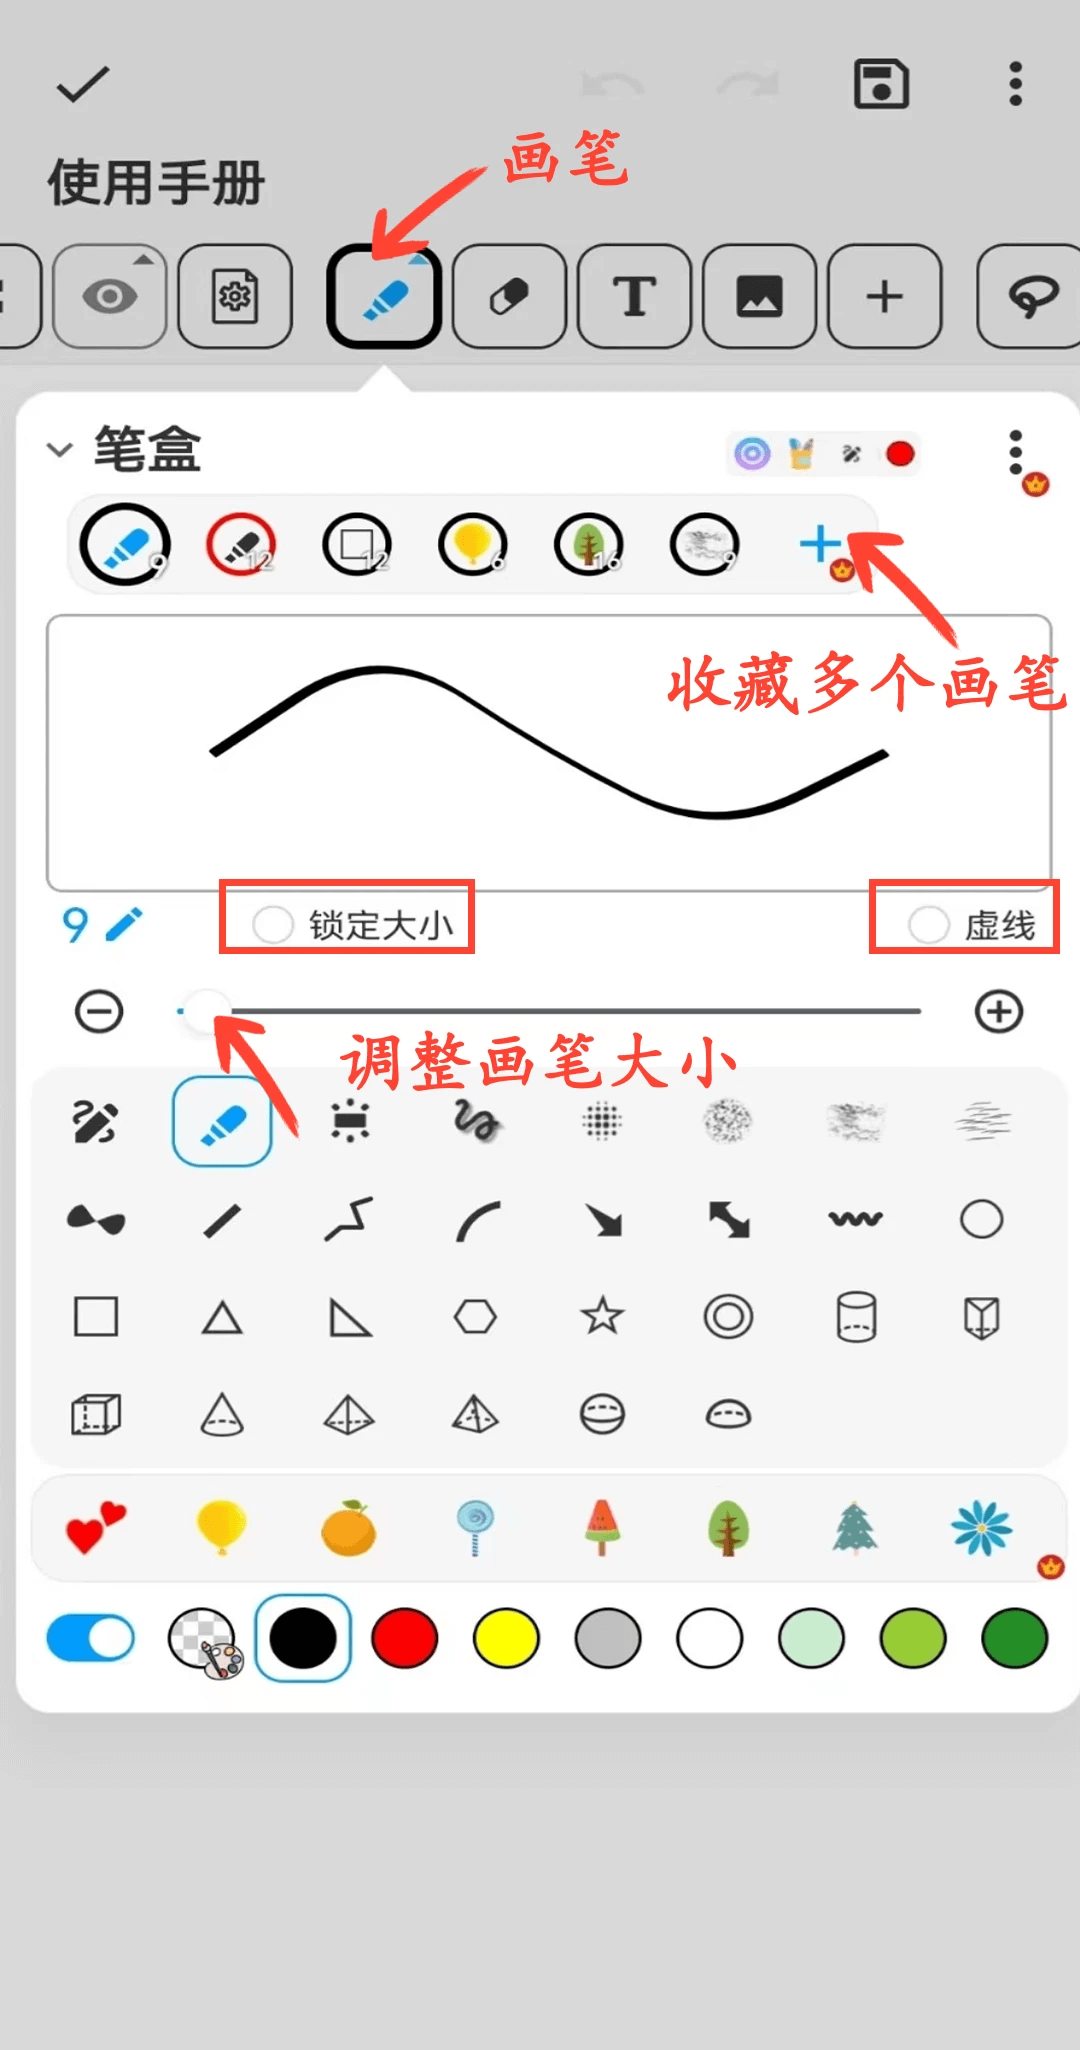
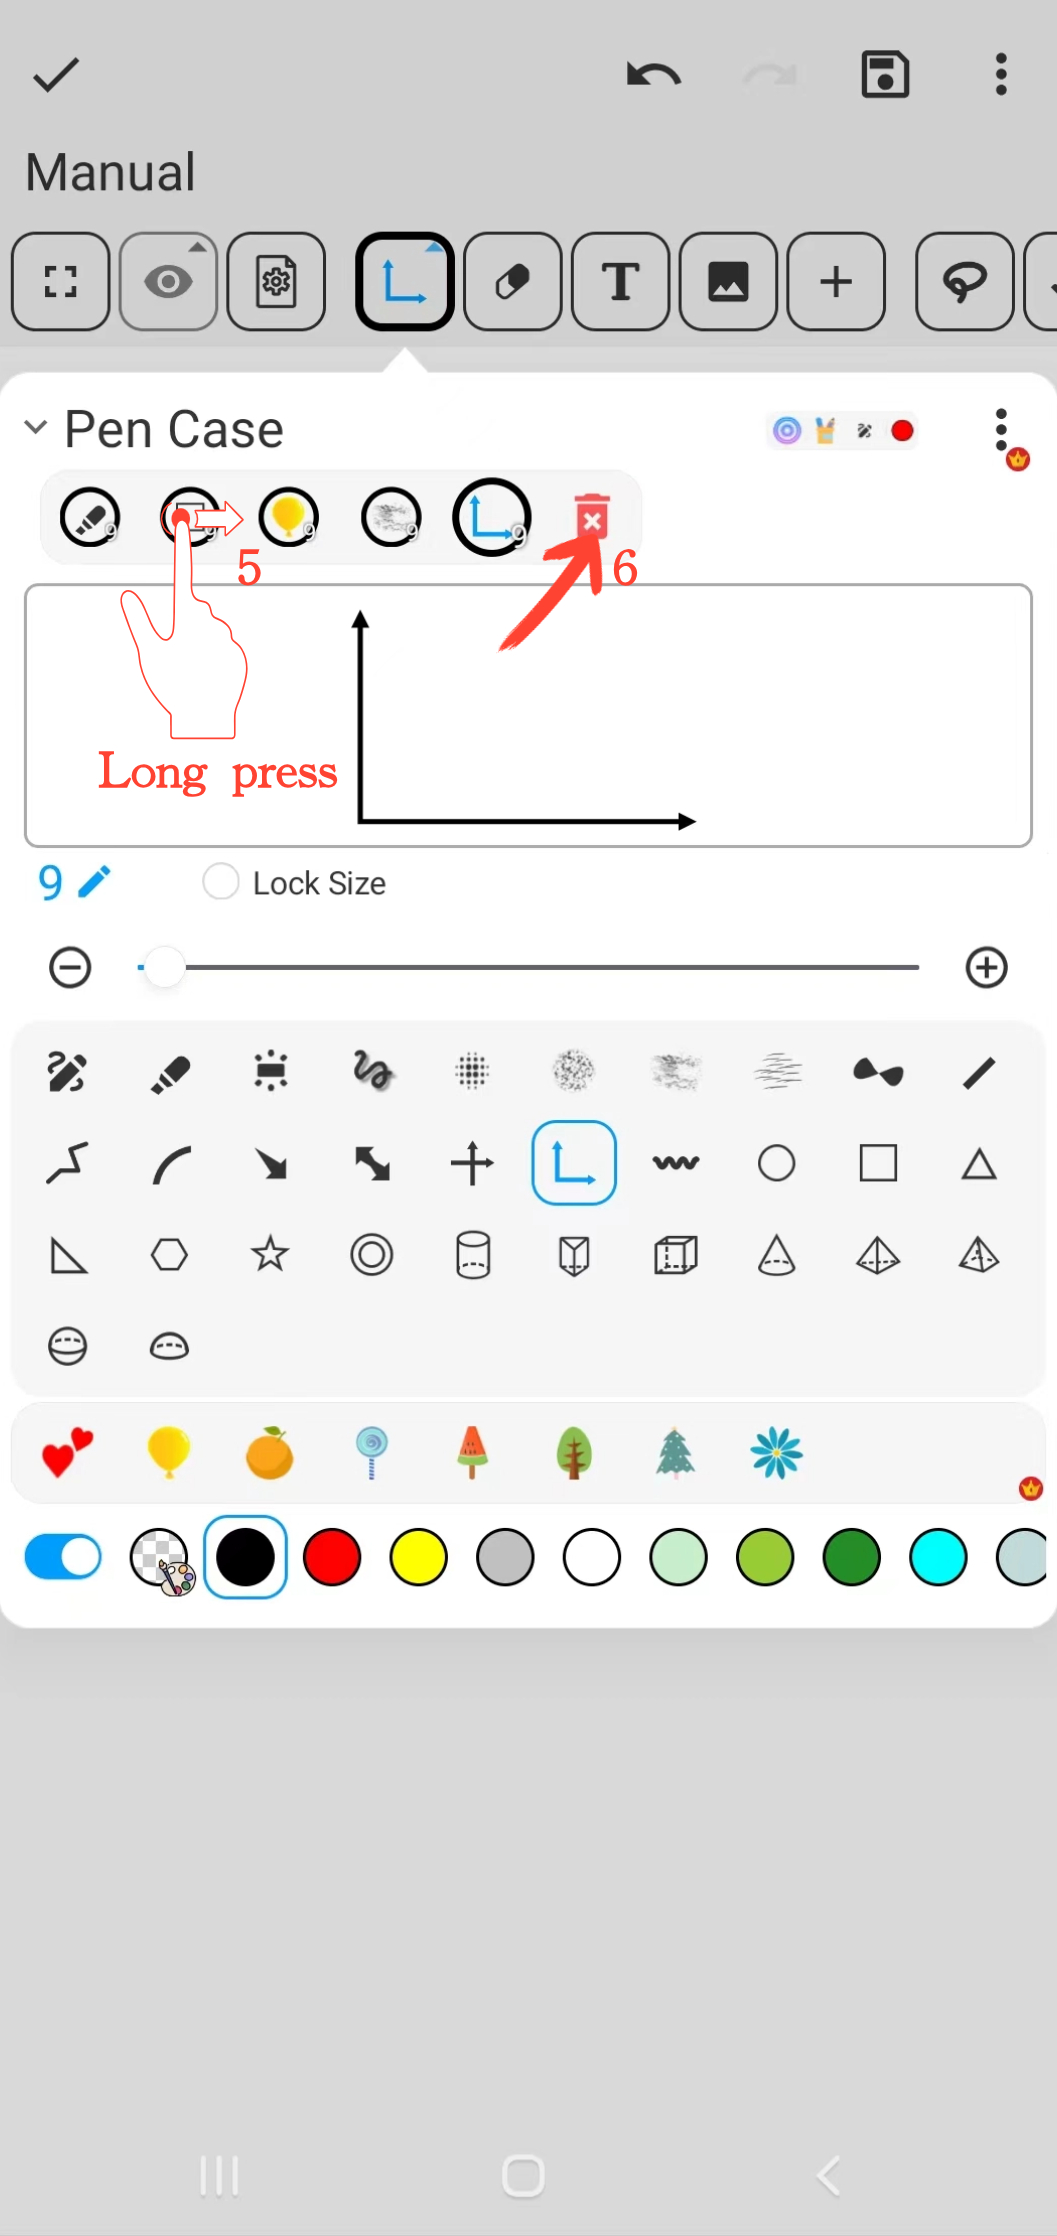
en

diff --git a/drawnote/manual/en/super_note/brush_function.md b/drawnote/manual/en/super_note/brush_function.md
@@ -7,39 +7,39 @@ Brush Function
 
 Click the "Brush" button in the toolbar to perform the following actions.
 
-#### Favorite Multiple Brushes
+#### 1.Collect Brushes
 
 Click the "+" button in the brush collection bar to add different types of brushes.
 
-#### Adjust Brush Size
-
-Use the middle slider or the "+" and "-" buttons on both sides to adjust the brush stroke size.
-
-#### Lock Brush Size
+#### 2.Lock Brush Size
 
 Check the "Lock Size" button to fix the brush size. Even if you zoom in or out on the canvas or page, the brush size will remain unchanged.
 
-#### Dashed Line Effect
+#### 3.Dashed Line Effect
 
 Check the "Dashed Line" button to apply the dashed line brush effect.
 
-![](imgs/brush_function1.png)
+#### 4.Adjust Brush Size
 
-#### Adjust Brush Position
+Use the middle slider or the "+" and "-" buttons on both sides to adjust the brush stroke size.
+
+![](imgs/brush_function.png)
+
+#### 5.Adjust Brush Position
 In the brush bar, press and hold the brush you want to adjust, then drag it left or right to the desired position and release.
 
-#### Delete Favorited Brushes
+#### 6.Delete Collect Brushes
 
 In the brush bar, press and hold the brush you wish to delete, then drag it to the "Trash Can" icon and release to remove that brush.
 
-![](imgs/brush_function2.png)
+![](imgs/brush_function1.png)
 
-#### Save Common Brush Sets
+#### Save Common Pen Case
 On the brush page, click the "⋮" button in the upper right corner and choose "Save to Brush List". Then, name your brush set and confirm to save your commonly used brush set.
 
-![](imgs/brush_function3.png)
+![](imgs/brush_function2.png)
 
-#### Choose Common Brush Sets
+#### Choose Common Pen Case
 On the brush page, click the "⋮" button in the upper right corner, then select the brush set you need from the brush list.
 
-![](imgs/brush_function4.png)
+![](imgs/brush_function5.png)

diff --git a/drawnote/manual/en/index.md b/drawnote/manual/en/index.md
@@ -1,6 +1,5 @@
-[Image: Logo of 有为笔记]
 
-**有为笔记**
+DrawNote
 ------
 Welcome to DrawNote! As a multifunctional integrated application, DrawNote combines various features such as note-taking, writing, mind mapping, to-do lists, handwriting, and drawing, catering to a wide range of users across different fields. This manual offers a comprehensive guide on all the functionalities and operations of DrawNote, assisting you to get started quickly.
 

diff --git a/drawnote/manual/en/super_note/audio_marker.md b/drawnote/manual/en/super_note/audio_marker.md
@@ -20,4 +20,4 @@ During recording or playback, click the "Marker" button to insert a marker at th
 
 4. **View audio marker history** - View markers in the expanded menu; click on a marker to quickly jump to and play the audio.
 
-![](imgs/audio_marker2.png)
+![](imgs/audio_marker1.png)
